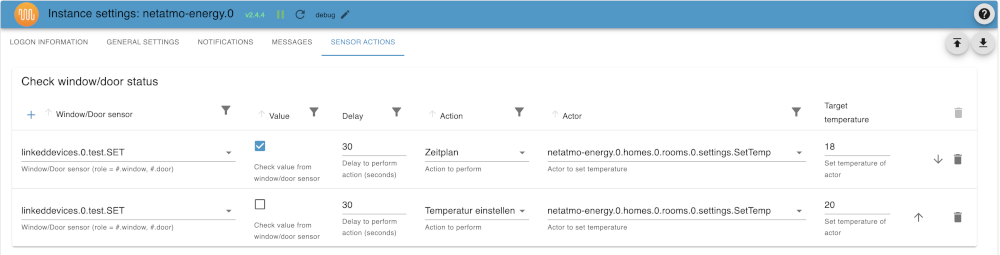
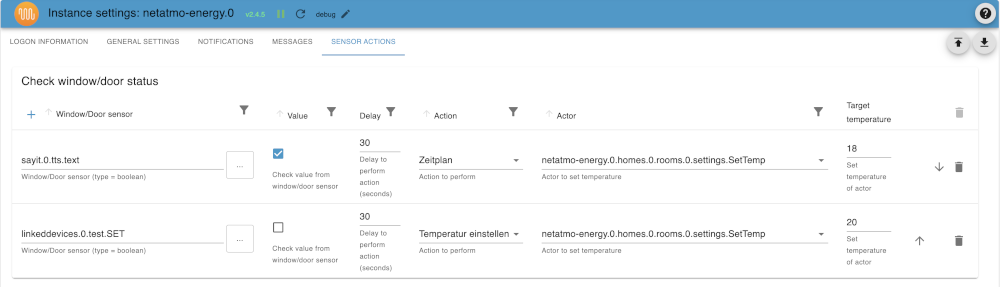
Sensor changed to object ID type boolean

diff --git a/admin/words.js b/admin/words.js
@@ -226,7 +226,7 @@ const _systemDictionary = {
 	"No temperature stored in sensor tab! ": { 						"en": "No temperature stored in sensor tab! ", 						"de": "Keine Temperatur in der Sensor-Tab gespeichert!", 		"ru": "Нет температуры, хранящейся в вкладке датчика!", 			"pt": "Nenhuma temperatura armazenada na aba do sensor!", 			"nl": "Geen temperatuur opgeslagen in sensoren!", 						"fr": "Aucune température stockée dans l'onglet capteur !", 				"it": "Nessuna temperatura memorizzata nella scheda del sensore!", 	"es": "¡No hay temperatura almacenada en la pestaña sensor!", 		"pl": "Nie przechowywano temperatury w tabeli czujnikowej!", 				"uk": "Немає температури, що зберігається в сенсорній вкладці!", 	"zh-cn": "未在传感器上储存的温度!" },
 	"Sensor actions": { 											"en": "Sensor actions", 											"de": "Sensorik", 												"ru": "Сенсорные действия", 										"pt": "Acções do sensor", 											"nl": "Sensor acties", 													"fr": "Actions de capteur", 												"it": "Azioni sensoriali", 											"es": "Medidas de sensor", 											"pl": "Akcje Sensora", 														"uk": "Дії датчика", 												"zh-cn": "补偿行动" },
 	"Check window/door status": { 									"en": "Check window/door status", 									"de": "Fenster-/Türstatus überprüfen", 							"ru": "Проверьте статус окна/двери", 								"pt": "Verificar o estado da janela/porta", 						"nl": "Controleer de ramen/door status", 								"fr": "Vérifier le statut de fenêtre/porte", 								"it": "Verifica lo stato della finestra/porta", 					"es": "Compruebe la ventana / estado de la puerta", 				"pl": "Strona internetowa", 												"uk": "Перевірити стан вікна / дверей", 							"zh-cn": "检查站窗口/户籍状况" },
-	"Window/Door sensor (role = #.window, #.door)": { 				"en": "Window/Door sensor (role = #.window, #.door)", 				"de": "Fenster/Tür-Sensor (Rolle = #.window, #.door)", 			"ru": "Окно/дверный датчик (role = #.window, #.door)", 				"pt": "Sensor de janela/Door (role = #.window, #.door)", 			"nl": "Window/Door sensor (role = #.window, #.door)", 					"fr": "Capteur de fenêtre/de porte (roule = #.window, #.door)", 			"it": "Sensore finestra/porta (rolo = #.window, #.door)", 			"es": "Sensor de ventana / puerta (role = #.window, #.door)", 		"pl": "Window/Door sensor (role = #.window, #door)", 						"uk": "Вікно / Дор датчик (role = #.window, #.door)", 				"zh-cn": "Window/Door感器(role = #.window, #.door)" },
+	"Window/Door sensor (type = boolean)": { 				"en": "Window/Door sensor (type = boolean)", 				"de": "Fenster/Tür-Sensor (type = boolean)", 			"ru": "Окно/дверный датчик (type = boolean)", 				"pt": "Sensor de janela/Door (type = boolean)", 			"nl": "Window/Door sensor (type = boolean)", 					"fr": "Capteur de fenêtre/de porte (roule = #.window, #.door)", 			"it": "Sensore finestra/porta (rolo = #.window, #.door)", 			"es": "Sensor de ventana / puerta (type = boolean)", 		"pl": "Window/Door sensor (role = #.window, #door)", 						"uk": "Вікно / Дор датчик (type = boolean)", 				"zh-cn": "Window/Door感器(role = #.window, #.door)" },
 	"Check value from window/door sensor": { 						"en": "Check value from window/door sensor", 						"de": "Prüfwert von Fenster/Tür-Sensor", 						"ru": "Проверьте значение из окна / двери датчика", 				"pt": "Verificar o valor do sensor de janela/porta", 				"nl": "Controleer waarde van ramen/door sensor", 						"fr": "Vérifier la valeur à partir du capteur de fenêtre/porte", 			"it": "Verifica il valore dal sensore finestra/porta", 				"es": "Valor de comprobación desde el sensor de ventana / puerta", 	"pl": "Wartość z okna/drzwiowego czujnika", 								"uk": "Перевірити значення з датчика віконного / дверцята", 		"zh-cn": "窗户/室传感器的检查价值" },
 	"Actor to set temperature": { 									"en": "Actor to set temperature", 									"de": "Aktivieren Sie die Temperatur", 							"ru": "Актер для установки температуры", 							"pt": "Ator para definir a temperatura", 							"nl": "Acteur om de temperatuur te starten", 							"fr": "Acteur pour fixer la température", 									"it": "Attore per impostare la temperatura", 						"es": "Actor para fijar temperatura", 								"pl": "Aktor ustanawiający temperaturę", 									"uk": "Актор для встановлення температури", 						"zh-cn": "确定温度的代理" },
 	"Window/Door sensor": { 										"en": "Window/Door sensor", 										"de": "Fenster/Tür Sensor", 									"ru": "Окно/дверный датчик", 										"pt": "Sensor de janela/caixa", 									"nl": "Window/Door sensor", 											"fr": "Capteur de fenêtre/de porte", 										"it": "Sensore finestra / porta", 									"es": "Sensor de ventana / puerta", 								"pl": "Window/Door sensor", 												"uk": "Вікно / датчик", 											"zh-cn": "Window/Door感传感器" },
@@ -242,7 +242,12 @@ const _systemDictionary = {
 	"Synchronize temperature immediately": { 						"en": "Synchronize temperature immediately", 						"de": "Temperatur sofort synchronisieren", 						"ru": "Синхронизируйте температуру немедленно", 					"pt": "Sincronizar a temperatura imediatamente", 					"nl": "Vertaling:", 													"fr": "Synchroniser la température immédiatement", 							"it": "Sincronizzare la temperatura immediatamente", 				"es": "Sincronizar la temperatura inmediatamente", 					"pl": "Temperatura synchroniczna", 											"uk": "Синхронізація температури відразу", 							"zh-cn": "温度立即同步" },
 	"Delay": { 														"en": "Delay", 														"de": "Verzögerung", 											"ru": "Задержка", 													"pt": "Delay", 														"nl": "Vertaling:", 													"fr": "Delay", 																"it": "Delay", 														"es": "Delay", 														"pl": "Delay", 																"uk": "Делей", 														"zh-cn": "拖延" },
 	"Delay to perform action (seconds)": { 							"en": "Delay to perform action (seconds)", 							"de": "Handlungsverzögerung (zweite)", 							"ru": "Задержка для выполнения действий (в секундах)", 				"pt": "Atraso para executar ação (segundos)", 						"nl": "Vertraging om actie te ondernemen", 								"fr": "Retard à l'action (secondes)", 										"it": "Ritardo per eseguire azioni (secondi)", 						"es": "Dilatación para actuar (segundos)", 							"pl": "Opóźnienie na działanie (drugie)", 									"uk": "Затримувати дію (секунди)", 									"zh-cn": "推迟采取行动(二)" },
-	"Temperature sensor is missing in adapter configuration to perform action:": { "en": "Temperature sensor is missing in adapter configuration to perform action: ", "de": "Der Temperatursensor fehlt in der Adapterkonfiguration, um die Aktion durchzuführen:", "ru": "Датчик температуры отсутствует в конфигурации адаптера для выполнения действий:", "pt": "Sensor de temperatura está faltando na configuração do adaptador para executar a ação:", "nl": "De temperatuursensor ontbreekt in adapter configuration om actie te voeren:", "fr": "Le capteur de température est absent dans la configuration de l'adaptateur pour effectuer l'action:", "it": "Il sensore di temperatura manca nella configurazione dell'adattatore per eseguire l'azione:", "es": "El sensor de temperatura falta en la configuración del adaptador para realizar la acción:", "pl": "Ciągłe czujniki nie występują w konfiguracji adapterowej do wykonywania czynności: czujnik uboczny", "uk": "Датчик температури відсутній в конфігурації адаптера для виконання дії:", "zh-cn": "变形组中缺乏帝国传感器,以采取行动:" },
+	"Temperature sensor is missing in adapter configuration to perform action:": { 	"en": "Temperature sensor is missing in adapter configuration to perform action: ", "de": "Der Temperatursensor fehlt in der Adapterkonfiguration, um die Aktion durchzuführen:", 	"ru": "Датчик температуры отсутствует в конфигурации адаптера для выполнения действий:", 	"pt": "Sensor de temperatura está faltando na configuração do adaptador para executar a ação:", "nl": "De temperatuursensor ontbreekt in adapter configuration om actie te voeren:", 	"fr": "Le capteur de température est absent dans la configuration de l'adaptateur pour effectuer l'action:", 	"it": "Il sensore di temperatura manca nella configurazione dell'adattatore per eseguire l'azione:", 	"es": "El sensor de temperatura falta en la configuración del adaptador para realizar la acción:", 	"pl": "Ciągłe czujniki nie występują w konfiguracji adapterowej do wykonywania czynności: czujnik uboczny", "uk": "Датчик температури відсутній в конфігурації адаптера для виконання дії:", 	"zh-cn": "变形组中缺乏帝国传感器,以采取行动:" },
+	"Wrong Sensor:": { 																"en": "Wrong Sensor:", 																"de": "Falscher Sensor:", 																		"ru": "Неправильный датчик:", 																"pt": "Sensor errado:", 																		"nl": "Verkeerde Sensor:", 																"fr": "Wrong Sensor:", 																							"it": "Sensore sbagliato:", 																			"es": "Sensor equivocado:", 																		"pl": "Sensor:", 																							"uk": "Датчик несправності:", 														"zh-cn": "Wrong Sensor:" },
+	"You have to use a bool sensor!": { 											"en": "You have to use a bool sensor!", 											"de": "Sie müssen einen Bool-Sensor verwenden!", 												"ru": "Вы должны использовать датчик bool!", 												"pt": "Você tem que usar um sensor bool!", 														"nl": "Je moet een bool sensor gebruiken!", 											"fr": "Il faut utiliser un capteur de l'alcool !", 																"it": "Devi usare un sensore di bool!", 																"es": "¡Tienes que usar un sensor de bool!", 														"pl": "Musisz użyć czujnika!", 																				"uk": "Ви повинні використовувати датчик кипіння!", 								"zh-cn": "你们必须使用一个手枪!" },
+	"Sensor action in": { 															"en": "Sensor action in", 															"de": "Sensorwirkung in", 																		"ru": "Действие датчика в", 																"pt": "Ação do sensor em", 																		"nl": "Sensor actie", 																	"fr": "Action du capteur", 																						"it": "Azione del sensore", 																			"es": "Medición sensorial en", 																		"pl": "Akcja w Sensorze", 																					"uk": "Дія датчика в", 																"zh-cn": "诉讼" },
+	"seconds!": { 																	"en": "seconds!", 																	"de": "sekunden!", 																				"ru": "секунды!", 																			"pt": "segundos!", 																				"nl": "seconden!", 																		"fr": "secondes !", 																							"it": "secondi!", 																						"es": "segundos!", 																					"pl": "drugie!", 																							"uk": "час!", 																		"zh-cn": "第二!" },
+	"Sensor action aborted for": { 													"en": "Sensor action aborted for", 													"de": "Sensorwirkung abgebrochen für", 															"ru": "Действие датчика аборд для", 														"pt": "Ação do sensor abortada para", 															"nl": "Sensor actie abortus voor", 														"fr": "Sensor action avortée pour", 																			"it": "Azione del sensore per", 																		"es": "Medida del sensor abortada", 																"pl": "Akcje Sensora przerwały się dla Sensora", 															"uk": "Сенсорна дія для", 															"zh-cn": "诉讼" },
 };
 // @ts-ignore
 if (typeof module !== 'undefined' && module.parent) {

diff --git a/main.js b/main.js
@@ -1457,6 +1457,7 @@ class NetatmoEnergy extends utils.Adapter {
 		//Internal Sensor
 		if (sensor_attribs.action == glob.Action_home) {
 			if (sensor_attribs.sensor_delay && sensor_attribs.sensor_delay > 0) {
+				this.log.debug(mytools.tl('Sensor action in', this.systemLang) + glob.blank + sensor_attribs.sensor_delay + glob.blank + mytools.tl('seconds!', this.systemLang) + glob.blank + id);
 				this.SensorIntervals.push(Object.assign({},
 					{ id: id },
 					{ value: actIdValue },
@@ -1472,6 +1473,7 @@ class NetatmoEnergy extends utils.Adapter {
 			if (!isNaN(NewTemp)) {
 				// @ts-ignore
 				if (sensor_attribs.sensor_delay && sensor_attribs.sensor_delay > 0) {
+					this.log.debug(mytools.tl('Sensor action in', this.systemLang) + glob.blank + sensor_attribs.sensor_delay + glob.blank + mytools.tl('seconds!', this.systemLang) + glob.blank + id);
 					this.SensorIntervals.push(Object.assign({},
 						{ id: id },
 						{ value: actIdValue },
@@ -1486,6 +1488,7 @@ class NetatmoEnergy extends utils.Adapter {
 
 		else if (sensor_attribs.action == glob.APIRequest_setthermmode_schedule || sensor_attribs.action == glob.APIRequest_setthermmode_hg || sensor_attribs.action == glob.APIRequest_setthermmode_away) {
 			if (sensor_attribs.sensor_delay && sensor_attribs.sensor_delay > 0) {
+				this.log.debug(mytools.tl('Sensor action in', this.systemLang) + glob.blank + sensor_attribs.sensor_delay + glob.blank + mytools.tl('seconds!', this.systemLang) + glob.blank + id);
 				this.SensorIntervals.push(Object.assign({},
 					{ id: id },
 					{ value: actIdValue },
@@ -1497,6 +1500,7 @@ class NetatmoEnergy extends utils.Adapter {
 
 		else if (sensor_attribs.action.search(glob.APIRequest_switchhomeschedule) >= 0) {
 			if (sensor_attribs.sensor_delay && sensor_attribs.sensor_delay > 0) {
+				this.log.debug(mytools.tl('Sensor action in', this.systemLang) + glob.blank + sensor_attribs.sensor_delay + glob.blank + mytools.tl('seconds!', this.systemLang) + glob.blank + id);
 				this.SensorIntervals.push(Object.assign({},
 					{ id: id },
 					{ value: actIdValue },
@@ -1514,11 +1518,16 @@ class NetatmoEnergy extends utils.Adapter {
 		for (sensor_attribs of this.config.sensors) {
 			if (sensor_attribs.window_sensor && sensor_attribs.window_sensor != null && sensor_attribs.window_sensor != undefined) {
 				if (sensor_attribs.window_sensor == id) {
-					let sensorvalue = {};
-					((id.search(this.namespace) >= 0) ? (sensorvalue = await this.getStateAsync(id)) : (sensorvalue = await this.getForeignStateAsync(id)));
-					if (sensorvalue != undefined && sensorvalue != null && sensorvalue.val != oldValue) {
-						if ((sensor_attribs.window_sensor_value == true && sensorvalue.val == true) || (sensor_attribs.window_sensor_value != true && sensorvalue.val == false)) {
-							await this._setSensorFields(id, sensor_attribs, sensorvalue.val);
+					const sensorobject = await this.getForeignObjectAsync(id);
+					if (sensorobject.common.type != 'boolean')  {
+						this.log.warn(mytools.tl('Wrong Sensor:', this.systemLang) + glob.blank + '[' + id + ']' + glob.blank + mytools.tl('You have to use a bool sensor!', this.systemLang));
+					} else {
+						let sensorvalue = {};
+						((id.search(this.namespace) >= 0) ? (sensorvalue = await this.getStateAsync(id)) : (sensorvalue = await this.getForeignStateAsync(id)));
+						if (sensorvalue != undefined && sensorvalue != null && sensorvalue.val != oldValue) {
+							if ((sensor_attribs.window_sensor_value == true && sensorvalue.val == true) || (sensor_attribs.window_sensor_value != true && sensorvalue.val == false)) {
+								await this._setSensorFields(id, sensor_attribs, sensorvalue.val);
+							}
 						}
 					}
 				}
@@ -1542,6 +1551,7 @@ class NetatmoEnergy extends utils.Adapter {
 				let abortTimer = false;
 				for (const ActSensor in that.SensorIntervals) {
 					if (that.SensorIntervals[ActSensor].id == id) {
+						this.log.debug(mytools.tl('Sensor action aborted for', this.systemLang) + glob.blank + id);
 						that._deleteSensorInterval(id, that.SensorIntervals[ActSensor].value);
 						abortTimer = true;
 					}

diff --git a/docs/de/README.md b/docs/de/README.md
@@ -113,7 +113,7 @@ Hier können sie bestimmte Nachrichten bei bestimmten Statusänderungen auslöse
 
 ## Sensorik
 
-In der Tabelle können Sie auf das "Fenster-/Türsensor" Attribut pro Raum reagieren. Der Status der jeweiligen Fenstersensoren kann beim Ändern eine Aktion auslösen, welche hier einzutragen ist. Es ist möglich hier alle Sensoren auszuwählen, welche als Rolle 'indicator.window', 'sensor.window', 'window', 'indicator.door', 'sensor.door', 'door' aufweisen. Somit können auch externe Sensoren eingebunden werden.
+In der Tabelle können Sie auf das "Fenster-/Türsensor" Attribut pro Raum reagieren. Der Status der jeweiligen Fenstersensoren kann beim Ändern eine Aktion auslösen, welche hier einzutragen ist. Es ist möglich hier alle Sensoren auszuwählen, welche vom Typ bool sind. Somit können auch externe Sensoren eingebunden werden.
 
 Folgende Aktionen können ausgelöst werden:
 

diff --git a/docs/en/README.md b/docs/en/README.md
@@ -111,7 +111,7 @@ You can send messages depending on status changes of specific states. The messag
 
 ## Sensor actions
 
-In the table, you can react to the "window_open" attribute per room. The status of the respective window sensors can trigger an action when changing, which is to be entered here. It is possible to select all sensors that have assigned the role 'indicator.window', 'sensor.window', 'window', 'indicator.door', 'sensor.door', 'door'. This means that external sensors can also be integrated.
+In the table, you can react to the "window_open" attribute per room. The status of the respective window sensors can trigger an action when changing, which is to be entered here. It is possible to select all sensors, which are boolean. This means that external sensors can also be integrated.
 
 The following actions can be triggered:
 

diff --git a/README.md b/README.md
@@ -37,6 +37,10 @@ Mittels der Netatmo-Energy API werden die aktuellen Einstellungen abgeholt bzw. 
     Placeholder for the next version (at the beginning of the line):
     ### **WORK IN PROGRESS**
 -->
+### 2.5.0 (2023-04-07)
+
+* (ioKlausi) Sensor changed to object ID type boolean
+
 ### 2.4.5 (2023-04-06)
 
 * (ioKlausi) Implementation of sensor abort functionality
